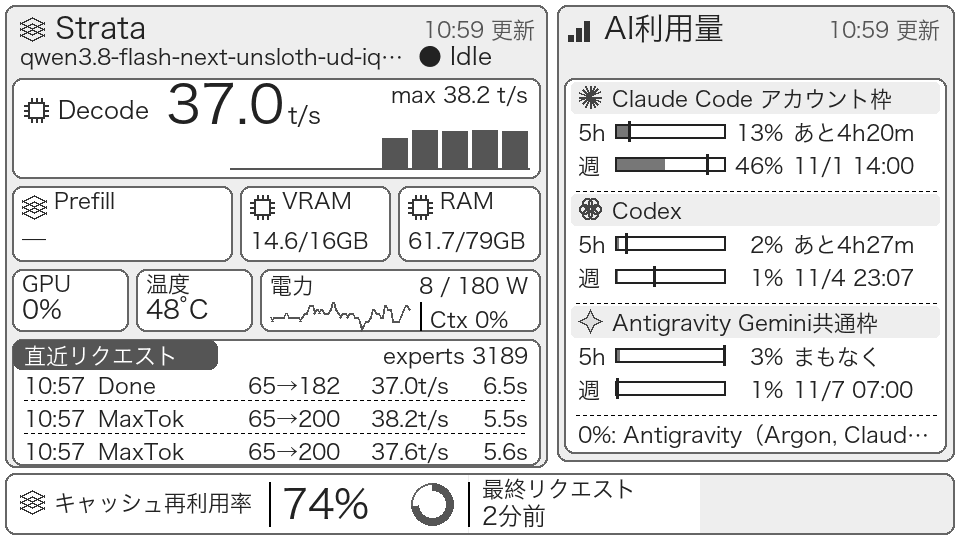
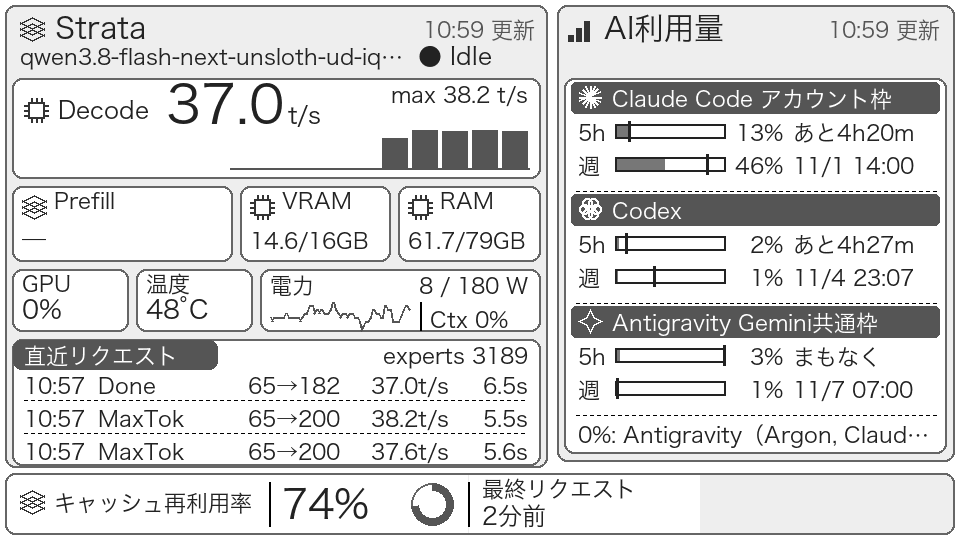
Invert provider headings to match request heading

Changed region(s): [[0.5938, 0.563, 1.0, 0.6519], [0.5938, 0.3556, 1.0, 0.4444], [0.5938, 0.1481, 1.0, 0.237]]

diff --git a/paperhub/render.py b/paperhub/render.py
@@ -147,18 +147,18 @@ def provider_icon(c, provider_id, x, y):
         for i in range(8):
             angle = i * math.pi / 8
             dx, dy = 11 * math.cos(angle), 11 * math.sin(angle)
-            d.line((x + 12 - dx, y + 12 - dy, x + 12 + dx, y + 12 + dy), fill=68, width=2)
+            d.line((x + 12 - dx, y + 12 - dy, x + 12 + dx, y + 12 + dy), fill=255, width=2)
     elif provider_id == "codex":
         for i in range(6):
             angle = i * math.pi / 3
             cx, cy = x + 12 + 6 * math.cos(angle), y + 12 + 6 * math.sin(angle)
-            d.ellipse((cx - 5, cy - 5, cx + 5, cy + 5), outline=68, width=2)
+            d.ellipse((cx - 5, cy - 5, cx + 5, cy + 5), outline=255, width=2)
     elif provider_id == "antigravity":
         d.polygon([(x + 12, y), (x + 16, y + 8), (x + 24, y + 12),
                    (x + 16, y + 16), (x + 12, y + 24), (x + 8, y + 16),
-                   (x, y + 12), (x + 8, y + 8)], fill=221, outline=68, width=2)
+                   (x, y + 12), (x + 8, y + 8)], fill=85, outline=255, width=2)
     else:
-        d.ellipse((x + 2, y + 2, x + 22, y + 22), outline=68, width=2)
+        d.ellipse((x + 2, y + 2, x + 22, y + 22), outline=255, width=2)
 
 
 
@@ -258,9 +258,9 @@ def draw_usage(c, view):
             if y + needed - 33 > 402:
                 omitted += 1
                 continue
-            c.draw.rounded_rectangle((571, y - 25, 939, y + 6), radius=5, fill=238)
+            c.draw.rounded_rectangle((571, y - 25, 939, y + 6), radius=5, fill=85)
             provider_icon(c, provider["id"], 578, y - 22)
-            c.text(612, y, group["display_heading"], bold=True, width=320)
+            c.text(612, y, group["display_heading"], bold=True, width=320, fill=255)
             y += 34
             for window in group["windows"]:
                 inverted = window["inverted"]

diff --git a/tests/test_render.py b/tests/test_render.py
@@ -351,5 +351,5 @@ def test_provider_icons_plan_free_headings_and_top_update(settings, drawing_font
     assert icons == ["claude-code", "codex", "antigravity"]
     assert not any("(pro)" in value or "(plus)" in value for value in texts)
     assert updates == [(535, 38), (940, 38)]
-    assert image.getpixel((800, 110)) == 238  # Flat gray heading background.
+    assert image.getpixel((800, 110)) == 85  # Same dark background as request heading.
     assert image.getpixel((635, 165)) == 119  # Gray usage fill, distinct from text.
